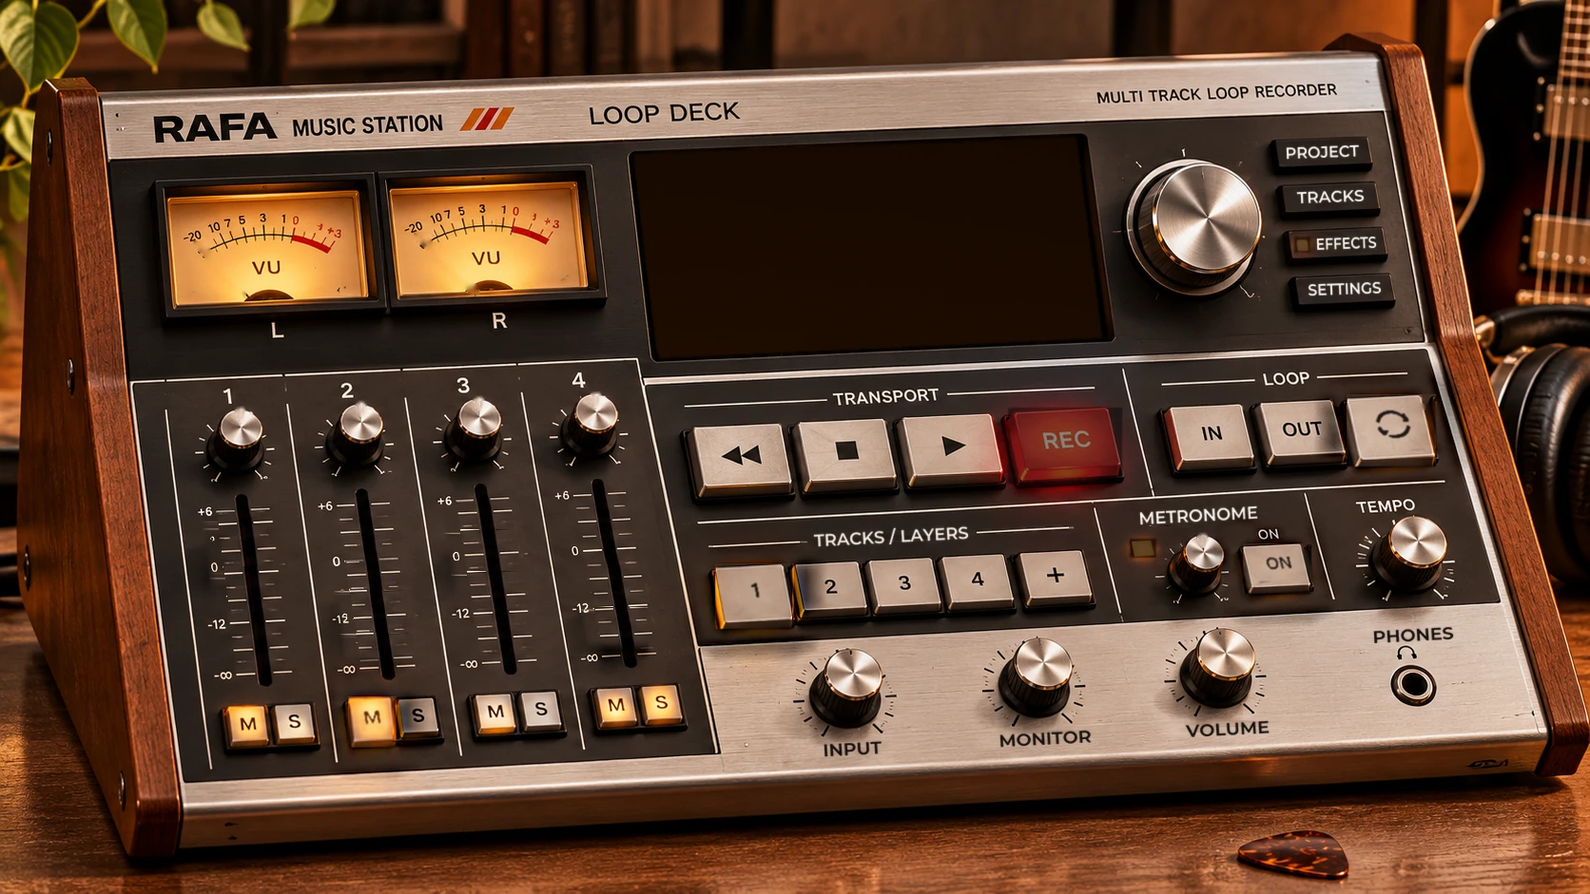
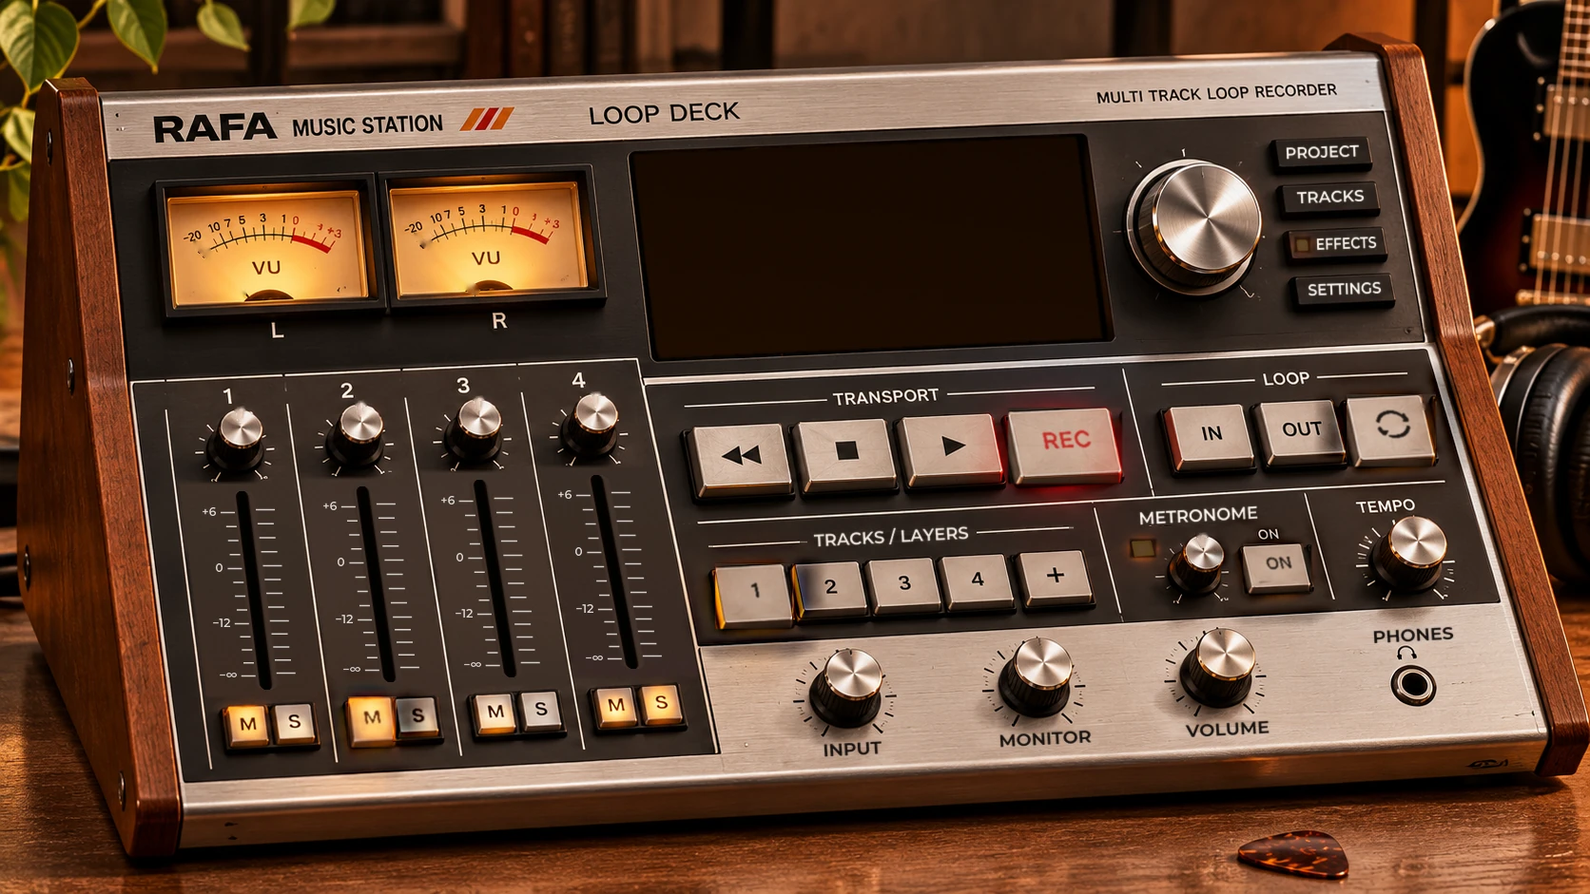
Model 5 – krok 2B: čisté dráhy faderov, REC v kľude čitateľné, S2 bez odlesku, živé ovládanie prvkov, DATA s klikom, menu doladené
Claude-Session: https://claude.ai/code/session_01LXNkLYYRgGvc4xCaCcczNM

diff --git a/ui-next/console.js b/ui-next/console.js
@@ -95,7 +95,7 @@
     hit.addEventListener("pointercancel", up);
   }
   const lit = (id, on) => BTN[id] && BTN[id].wrap.classList.toggle("lit", !!on);
-  const blink = (id, on) => BTN[id] && BTN[id].wrap.classList.toggle("blink", !!on);
+  const armed = (id, on) => BTN[id] && BTN[id].wrap.classList.toggle("armed", !!on);
   const flash = (id) => { lit(id, true); setTimeout(() => render(), 220); flashing[id] = performance.now() + 220; };
   const flashing = {};
 
@@ -182,7 +182,8 @@
     o.angle = angleDeg;
     const k = o.k, a = angleDeg * Math.PI / 180, s = Math.sin(a), c = Math.cos(a);
     const r0 = o.k === C.knobs.jog ? 0.55 : 0.32, r1 = 0.86;
-    const x0 = k.cx + s * k.rx * r0, y0 = k.cy - c * k.ry * r0, x1 = k.cx + s * k.rx * r1, y1 = k.cy - c * k.ry * r1;
+    const pd = o.pressed ? 1.2 : 0;
+    const x0 = k.cx + s * k.rx * r0, y0 = k.cy - c * k.ry * r0 + pd, x1 = k.cx + s * k.rx * r1, y1 = k.cy - c * k.ry * r1 + pd;
     o.ln.setAttribute("x1", x0); o.ln.setAttribute("y1", y0); o.ln.setAttribute("x2", x1); o.ln.setAttribute("y2", y1);
     o.sh.setAttribute("x1", x0 + 0.6); o.sh.setAttribute("y1", y0 + 0.9); o.sh.setAttribute("x2", x1 + 0.6); o.sh.setAttribute("y2", y1 + 0.9);
   }
@@ -233,17 +234,30 @@
   function setupJog (hit, o) {
     let lastA = null, rest = 0;
     const ang = (ev) => { const r = hit.getBoundingClientRect(); return Math.atan2(ev.clientX - (r.left + r.width / 2), -(ev.clientY - (r.top + r.height / 2))) * 180 / Math.PI; };
-    hit.addEventListener("pointerdown", (ev) => { if (ev.button !== 0) return; hit.setPointerCapture(ev.pointerId); lastA = ang(ev); rest = 0; hold.jog = true; hit.style.cursor = "grabbing"; });
+    let moved = 0;
+    hit.addEventListener("pointerdown", (ev) => { if (ev.button !== 0) return; hit.setPointerCapture(ev.pointerId); lastA = ang(ev); rest = 0; moved = 0; hold.jog = true; hit.style.cursor = "grabbing"; hit.classList.add("active"); o.pressed = true; drawKnob(o, jogAcc); });
     hit.addEventListener("pointermove", (ev) => {
       if (!hold.jog) return; let a = ang(ev), d = a - lastA; if (d > 180) d -= 360; if (d < -180) d += 360; lastA = a;
-      jogAcc += d; drawKnob(o, jogAcc); rest += d;
+      jogAcc += d; moved += Math.abs(d); drawKnob(o, jogAcc); rest += d;
       while (rest >= 15) { rest -= 15; jogStep(+1, ev.shiftKey); }
       while (rest <= -15) { rest += 15; jogStep(-1, ev.shiftKey); }
     });
-    const end = () => { hold.jog = false; hit.style.cursor = ""; };
+    const end = (ev) => {
+      if (!hold.jog) return; hold.jog = false; hit.style.cursor = ""; o.pressed = false; drawKnob(o, jogAcc);
+      setTimeout(() => hit.classList.remove("active"), 250);
+      if (ev.type === "pointerup" && moved < 6) jogPress();      // krátke stlačenie bez otočenia = vybrať
+    };
     hit.addEventListener("pointerup", end); hit.addEventListener("pointercancel", end);
-    hit.addEventListener("wheel", (ev) => { ev.preventDefault(); const d = ev.deltaY < 0 ? 1 : -1; jogAcc += d * 15; drawKnob(o, jogAcc); jogStep(d, ev.shiftKey); }, { passive: false });
-    hit.addEventListener("dblclick", () => { if (menu) menuEnter(); });
+    let wheelT = 0;
+    hit.addEventListener("wheel", (ev) => { ev.preventDefault(); const d = ev.deltaY < 0 ? 1 : -1; jogAcc += d * 15; drawKnob(o, jogAcc); hit.classList.add("active"); clearTimeout(wheelT); wheelT = setTimeout(() => hit.classList.remove("active"), 300); jogStep(d, ev.shiftKey); }, { passive: false });
+  }
+  // stlačenie DATA: v menu vyberie položku, inak otvorí rýchly výber vrstvy
+  function jogPress () {
+    if (menu) { menuEnter(); return; }
+    if (!tracks.length) { flashValue("Zatiaľ žiadna vrstva"); return; }
+    const items = tracks.map((x, i) => ({ t: (i + 1) + "  " + x.name, act: () => { localSel = x.id; page = Math.floor(i / 4); if (has(4)) send("selectTrack", { trackId: x.id }); flashValue("Vybraná vrstva: " + x.name); } }));
+    menu = { id: "select", title: "VÝBER VRSTVY", items, sel: Math.max(0, tracks.findIndex(x => x.id === selectedId())) };
+    drawMenu();
   }
   function jogStep (dir, big) {
     if (menu) return menuMove(dir);
@@ -345,10 +359,11 @@
   const fmtTime = (s) => { const neg = s < 0; s = Math.abs(s); const m = Math.floor(s / 60), r = s - m * 60; return (neg ? "−" : "") + m + ":" + r.toFixed(3).padStart(6, "0"); };
   const fmtShort = (s) => { const m = Math.floor(s / 60), r = Math.floor(s - m * 60); return m + ":" + String(r).padStart(2, "0"); };
   const LANE_X = 122;
+  const LANE_H = 24;
   const laneEls = [];
   for (let i = 0; i < 4; i++) {
-    const lane = el("div", "lane", lanesEl, { top: px(i * 26) });
-    const ln = el("div", "ln", lane); const cv = el("canvas", "", lane); cv.width = 310 * 2; cv.height = 26 * 2;
+    const lane = el("div", "lane", lanesEl, { top: px(i * LANE_H) });
+    const ln = el("div", "ln", lane); const cv = el("canvas", "", lane); cv.width = 290 * 2; cv.height = 22 * 2;
     laneEls.push({ lane, ln, cv, sig: "" });
   }
   const loopEl = el("div", "d-loop", lanesEl, { display: "none" });
@@ -405,7 +420,7 @@
     emptyEl.style.display = tracks.length ? "none" : "block";
     pageEl.textContent = tracks.length > 4 ? "STOPY " + (page * 4 + 1) + "–" + Math.min(tracks.length, page * 4 + 4) + " / " + tracks.length : "";
     const w = laneW();
-    headEl.style.left = px(LANE_X + clamp((t.position || 0) / viewLength, 0, 1) * w);
+    headEl.style.left = px(LANE_X + clamp((t.position || 0) / viewLength, 0, 1) * (w - 2));
     if (lp.on) { loopEl.style.display = "block"; loopEl.style.left = px(LANE_X + lp.start / viewLength * w); loopEl.style.width = px(Math.max(1, (lp.end - lp.start) / viewLength * w)); }
     else loopEl.style.display = "none";
   }
@@ -453,7 +468,7 @@
     menuEl.hidden = false;
     menuEl.innerHTML = "<h4>" + menu.title + "</h4>" + menu.items.map((it, i) =>
       `<div class="mi${i === menu.sel ? " sel" : ""}${it.dis ? " dis" : ""}" data-i="${i}">${escapeHtml(it.t)}</div>`).join("") +
-      `<div class="hint">točiť DATA · klik = vybrať · ${menu.parent ? "← späť" : "tlačidlo = zavrieť"}</div>`;
+      `<div class="hint">DATA: otočiť = pohyb, klik = vybrať, ${menu.parent ? "Esc = späť" : "tlačidlo = zavrieť"}</div>`;
     render();
   }
   menuEl.addEventListener("pointerover", (ev) => { const i = ev.target.dataset && ev.target.dataset.i; if (i !== undefined && menu) { menu.sel = +i; drawMenu(); } });
@@ -502,7 +517,7 @@
     if (!st) return;
     const t = st.transport || {}, now = performance.now();
     const isFlash = (id) => flashing[id] && flashing[id] > now;
-    lit("play", t.playing && !t.recording); lit("rec", t.recording); blink("rec", t.countingIn);
+    lit("play", t.playing && !t.recording); lit("rec", t.recording && !t.countingIn); armed("rec", t.countingIn);
     lit("stop", isFlash("stop")); lit("rewind", isFlash("rewind")); lit("loopIn", isFlash("loopIn")); lit("loopOut", isFlash("loopOut")); lit("layerAdd", isFlash("layerAdd"));
     lit("loop", st.loop && st.loop.on); lit("metroOn", st.metronome && st.metronome.on);
     for (const m of ["project", "tracks", "effects", "settings"]) lit(m, menu && menu.id === m);
@@ -546,7 +561,7 @@
     const dt = Math.min(0.1, (now - lastT) / 1000); lastT = now;
     const [tl, tr] = vuTargets();
     for (const [side, target] of [["L", tl], ["R", tr]]) {
-      const o = vuSide[side], vu = clamp(target + 18, -23, 3.6);   // 0 VU = −18 dBFS
+      const o = vuSide[side], vu = clamp(target + 18, -21.8, 3.3);   // 0 VU = −18 dBFS
       o.val += (vu - o.val) * (1 - Math.exp(-dt / 0.3 * 3));
       drawNeedle(o, vuAngle(o.val));
     }
@@ -556,7 +571,7 @@
   requestAnimationFrame(frame);
 
   // ------------------------------------------------------------------ motor
-  Rafa.on("state", (s) => { st = s; if (menu && menu.id !== "rename" && !menu.parent) { const m = buildMenu(menu.id); m.sel = menu.sel; menu = m; drawMenu(); } else render(); });
+  Rafa.on("state", (s) => { st = s; if (menu && ["project", "tracks", "effects", "settings"].includes(menu.id) && !menu.parent) { const m = buildMenu(menu.id); m.sel = menu.sel; menu = m; drawMenu(); } else render(); });
   Rafa.on("tracks", (t) => {
     tracks = (t && t.tracks) || []; viewLength = (t && t.viewLength) || 30;
     if (page * 4 >= tracks.length) page = Math.max(0, Math.ceil(tracks.length / 4) - 1);

diff --git a/ui-next/console.css b/ui-next/console.css
@@ -23,8 +23,10 @@ html, body { margin: 0; height: 100%; background: #140b06; overflow: hidden; use
   box-shadow: 0 0 22px 6px rgba(255, 158, 40, .35); }
 .btn.k-rec .glow { box-shadow: 0 0 26px 8px rgba(255, 40, 20, .45); }
 .btn.k-menu .glow { box-shadow: none; }
-.btn.blink.lit .on { animation: blink 0.5s steps(1) infinite; }
-@keyframes blink { 50% { opacity: .25; } }
+.btn.armed .on { animation: armed 0.9s ease-in-out infinite; }
+.btn.armed .glow { opacity: .5; }
+@keyframes armed { 0%, 100% { opacity: .15; } 50% { opacity: .55; } }
+.hit.jog.active::after { opacity: 1; background: radial-gradient(closest-side, rgba(255, 200, 120, .22), rgba(255, 200, 120, .06) 65%, transparent); }
 .led .on { opacity: 0; transition: opacity 40ms; }
 .led.lit .on { opacity: 1; }
 .led .halo { position: absolute; inset: 2px; border-radius: 4px; opacity: 0; box-shadow: 0 0 14px 5px rgba(255, 170, 40, .55); transition: opacity 40ms; }
@@ -44,7 +46,7 @@ html, body { margin: 0; height: 100%; background: #140b06; overflow: hidden; use
 
 /* ---------- displej ---------- */
 #display { position: absolute; left: 0; top: 0; width: 472px; height: 220px; transform-origin: 0 0; overflow: hidden;
-  box-sizing: border-box; padding: 14px 18px 10px 20px;
+  box-sizing: border-box; padding: 18px 26px 16px 28px;
   font-family: "RafaSans", "Segoe UI", sans-serif; font-weight: 500; color: #ffb547;
   text-shadow: 0 0 6px rgba(255, 150, 30, .55);
   background: radial-gradient(ellipse at 50% 30%, rgba(60, 28, 6, .25), transparent 70%); }
@@ -63,28 +65,29 @@ html, body { margin: 0; height: 100%; background: #140b06; overflow: hidden; use
 .d-info { display: flex; gap: 14px; font-size: 10px; color: #d98b33; letter-spacing: .04em; border-bottom: 1px solid rgba(255, 170, 60, .45);
   padding-bottom: 3px; margin-bottom: 4px; font-variant-numeric: tabular-nums; }
 .d-info span:last-child { margin-left: auto; }
-.d-lanes { position: relative; height: 104px; }
-.lane { position: absolute; left: 0; right: 0; height: 26px; display: flex; align-items: center; }
+.d-lanes { position: relative; height: 96px; margin-right: 6px; }
+.lane { position: absolute; left: 0; right: 0; height: 24px; display: flex; align-items: center; }
 .lane .ln { width: 122px; font-size: 12.5px; white-space: nowrap; overflow: hidden; text-overflow: ellipsis; color: #ffb547; padding-left: 4px; box-sizing: border-box; }
 .lane .ln b { font-weight: 600; display: inline-block; width: 16px; }
 .lane.sel .ln { color: #ffe0a6; text-shadow: 0 0 8px rgba(255, 190, 90, .9); }
 .lane.muted { opacity: .38; }
 .lane.rec .ln { color: #ff6a45; }
-.lane canvas { flex: 1; height: 26px; }
+.lane canvas { flex: 1; height: 22px; }
 .d-empty { position: absolute; left: 0; right: 0; top: 36px; text-align: center; font-size: 12px; color: #c8822f; }
 .d-playhead { position: absolute; top: 0; bottom: 0; width: 1.5px; background: #ffd27a; box-shadow: 0 0 5px rgba(255, 190, 80, .9); }
 .d-loop { position: absolute; top: 0; bottom: 0; background: rgba(255, 170, 60, .10); border-left: 1px solid rgba(255, 170, 60, .7); border-right: 1px solid rgba(255, 170, 60, .7); }
 .d-page { position: absolute; right: 0; bottom: -2px; font-size: 9px; color: #c8822f; }
 
 /* menu na displeji */
-.d-menu { position: absolute; left: 14px; right: 14px; top: 34px; bottom: 10px; background: #160803;
-  border: 1px solid rgba(255, 170, 60, .55); border-radius: 3px; padding: 6px 10px; font-size: 13px; }
+.d-menu { position: absolute; left: 24px; right: 24px; top: 42px; bottom: 16px; background: #160803;
+  border: 1px solid rgba(255, 170, 60, .45); border-radius: 3px; padding: 8px 10px 22px; font-size: 13px; box-sizing: border-box; }
 .d-menu h4 { margin: 0 0 4px; font-size: 11px; letter-spacing: .12em; font-weight: 600; color: #f2a53e; }
-.d-menu .mi { padding: 2px 6px; border-radius: 2px; cursor: pointer; white-space: nowrap; }
-.d-menu .mi.sel { background: rgba(255, 170, 60, .22); color: #ffe0a6; }
+.d-menu .mi { padding: 1px 8px 1px 14px; height: 19px; line-height: 19px; cursor: pointer; white-space: nowrap; position: relative; }
+.d-menu .mi.sel { background: linear-gradient(90deg, rgba(255, 170, 60, .26), rgba(255, 170, 60, .08)); color: #ffe6b8; }
+.d-menu .mi.sel::before { content: ""; position: absolute; left: 4px; top: 6px; width: 0; height: 0; border-left: 5px solid #ffc164; border-top: 4px solid transparent; border-bottom: 4px solid transparent; }
 .d-menu .mi.dis { opacity: .4; }
-.d-menu .hint { position: absolute; right: 10px; bottom: 6px; font-size: 9px; color: #b9772b; }
+.d-menu .hint { position: absolute; left: 14px; right: 10px; bottom: 6px; font-size: 8.5px; color: #8f5a22; text-shadow: none; letter-spacing: .02em; }
 
 /* bublina hodnoty pri točení gombíkom – nepoužíva sa obdĺžnik nad prvkom, hodnota sa ukáže na displeji */
-.d-value { position: absolute; left: 0; right: 0; top: 52px; text-align: center; font-size: 13px; color: #ffe0a6; opacity: 0; transition: opacity 200ms; }
+.d-value { position: absolute; left: 28px; right: 32px; top: 79px; height: 16px; line-height: 16px; text-align: center; font-size: 12.5px; color: #ffe0a6; background: #170903; border-top: 1px solid rgba(255,170,60,.35); border-bottom: 1px solid rgba(255,170,60,.35); opacity: 0; transition: opacity 200ms; z-index: 3; }
 .d-value.show { opacity: 1; }

diff --git a/ui-next/controls.js b/ui-next/controls.js
@@ -320,7 +320,7 @@ window.RAFA_CONTROLS = {
    "h": 50,
    "off": "assets/btn_solo2_off.webp",
    "on": "assets/btn_solo2_on.webp",
-   "kind": "grey2"
+   "kind": "grey2fix"
   },
   "mute3": {
    "x": 497,

diff --git a/tools/model5/assets.py b/tools/model5/assets.py
@@ -34,50 +34,113 @@ F={'f1':dict(top=(255,522),bot=(280,720),marks={6:538,0:597,-12:655,-100:710},ca
    'f3':dict(top=(505,510),bot=(537,707),marks={6:526,0:586,-12:645,-100:699},cap=(493,547,550,607),groove=570),
    'f4':dict(top=(628,505),bot=(665,698),marks={6:520,0:580,-12:640,-100:692},cap=(630,613,688,673),groove=637)}
 orig_plate=plate.copy()
+from PIL import ImageFont, ImageDraw
+FONT=ImageFont.truetype('/tmp/fonts/Montserrat.ttf',60); FONT.set_variation_by_axes([550])
+def slotfun(f):
+    (tx,ty),(bx,by)=f['top'],f['bot']; sl=(bx-tx)/(by-ty); return (lambda y: tx+(y-ty)*sl), sl
+def draw_text_alpha(text,cap):
+    img=Image.new('L',(400,120),0); d=ImageDraw.Draw(img); d.text((10,10),text,font=FONT,fill=255)
+    img=img.crop(img.getbbox()); hb=FONT.getbbox('0'); s_=cap/(hb[3]-hb[1])
+    return np.asarray(img.resize((max(1,int(img.width*s_)),max(1,int(img.height*s_))),Image.LANCZOS)).astype(np.float32)/255
+def stamp(img,alpha,x,y,color):
+    h,w=alpha.shape; x=int(round(x)); y=int(round(y))
+    img[y:y+h,x:x+w]=img[y:y+h,x:x+w]*(1-alpha[...,None])+np.array(color,np.float32)*alpha[...,None]
+def hline(img,y,xa,xb,color,th=1.6):
+    # vodorovna ryzka s antialiasingom
+    for yy in range(int(np.floor(y-th)),int(np.ceil(y+th))+1):
+        a_=np.clip(th/2+0.5-abs(yy-y),0,1)
+        if a_<=0: continue
+        xs=np.arange(int(np.floor(xa)),int(np.ceil(xb))+1)
+        ax=np.clip(np.minimum(xs-xa+1,xb-xs+1),0,1)*a_
+        img[yy,xs]=img[yy,xs]*(1-ax[:,None])+np.array(color,np.float32)*ax[:,None]
+# spolocne parametre z cistych miest povodneho obrazka
+prof=[]
 for n,f in F.items():
-    (tx,ty),(bx,by)=f['top'],f['bot']; slant=(bx-tx)/(by-ty)
-    slotx=lambda y: tx+(y-ty)*slant
-    x0,y0,x1,y1=f['cap']
-    Wy0,Wy1=int(max(y0-26,ty+14)),int(min(y1+36,by-14))
-    if f['groove']<600: cs,ce=Wy1+2,int(by-14)
-    else: cs,ce=int(ty+14),Wy0-2
-    # perioda ryzok z autokorelacie
-    ysr=np.arange(cs,ce); col=np.array([lum(orig_plate[y,int(slotx(y))+18]) for y in ysr]); col-=col.mean()
-    ac=[(col[:-k]*col[k:]).mean() for k in range(10,22)]; per=10+int(np.argmax(ac))
-    Lp=per*max(1,(ce-cs)//per)
-    rows=[]
-    for yy in range(Wy0,Wy1):
-        sx=slotx(yy); xl=int(round(sx-46)); xr=int(round(sx+40))
-        sy=cs+((yy-cs)%Lp); off=int(round(slotx(sy)-sx))
-        rows.append((yy,xl,xr,off,sy))
-    for (yy,xl,xr,off,sy) in rows:
-        seg=orig_plate[sy,xl+off:xr+off].copy()
-        lab_end=int(round(slotx(yy)-29))-xl
-        panel=np.median(orig_plate[sy,xl+off:xl+off+lab_end].reshape(-1,3),0)
-        seg[:lab_end]=panel
-        plate[yy,xl:xr]=seg
-    # vratit povodne napisy (0, +6...) v stlpci napisov, zosvetlene o tien
-    for (yy,xl,xr,off,sy) in rows:
-        lab_end=int(round(slotx(yy)-29))
-        o=orig_plate[yy,xl:lab_end]; L=lum(o)
-        m=L>70
-        if m.any():
-            plate[yy,xl:lab_end][m]=np.clip(o[m]*1.25,0,255)
-    # mäkké okraje okna
-    Wx0=int(min(r[1] for r in rows)); Wx1=int(max(r[2] for r in rows))
-    blk=plate[Wy0-8:Wy1+8,Wx0-8:Wx1+8]; ob=orig_plate[Wy0-8:Wy1+8,Wx0-8:Wx1+8]
-    msk=np.zeros(blk.shape[:2],np.float32)
-    for (yy,xl,xr,off,sy) in rows: msk[yy-Wy0+8, xl-Wx0+8+3: xr-Wx0+8-3]=1
-    msk[:12]*=0; msk[-12:]*=0
-    msk=cv2.GaussianBlur(msk,(0,0),3.5)[...,None]
-    plate[Wy0-8:Wy1+8,Wx0-8:Wx1+8]=ob*(1-msk)+blk*msk
-    # sprite hlavicky z povodneho
+    slotx,_=slotfun(f); x0,y0,x1,y1=f['cap']; (tx,ty),(bx,by)=f['top'],f['bot']
+    for y in range(int(ty+20),int(by-20)):
+        if y0-35<=y<=y1+45: continue
+        cx=slotx(y); xs=np.arange(-12,13)
+        row=np.array([orig_plate[y,int(np.floor(cx+d))]*(1-((cx+d)%1))+orig_plate[y,int(np.floor(cx+d))+1]*((cx+d)%1) for d in xs])
+        prof.append(row)
+prof=np.median(np.array(prof),0)            # priečny rez drážkou (25 bodov)
+tickcol=np.array([205,208,212],np.float32)  # farba ryziek (BGR)
+labcol=np.array([214,216,220],np.float32)
+DIV=[(182,210),(312,342),(438,473),(563,602),(695,740)]
+divx=lambda i,y: DIV[i][0]+(DIV[i][1]-DIV[i][0])*(y-500)/220
+for n,f in F.items():
+    slotx,slant=slotfun(f); (tx,ty),(bx,by)=f['top'],f['bot']; x0,y0,x1,y1=f['cap']
+    Y0,Y1=int(ty-16),int(by+16)
+    fi=int(n[1])-1
+    XL=lambda y: int(round(divx(fi,y)+4)); XR=lambda y: int(round(divx(fi+1,y)-3))
+    # 1) podklad panelu: hladky priebeh farby z cisteho stlpca vpravo od ryziek
+    ys=[];cs=[]
+    for y in range(Y0,Y1):
+        if y0-35<=y<=y1+50: continue
+        xr=XR(y)-12; ys.append(y); cs.append(np.median(orig_plate[y,xr:xr+8].reshape(-1,3),0))
+    ys=np.array(ys); cs=np.array(cs)
+    coef=[np.polyfit(ys,cs[:,k],2) for k in range(3)]
+    rng=np.random.default_rng(int(n[1]))
+    for y in range(Y0,Y1):
+        xl=XL(y); xr=XR(y)
+        base=np.array([np.polyval(coef[k],y) for k in range(3)],np.float32)
+        plate[y,xl:xr]=base+rng.normal(0,1.1,(xr-xl,1)).astype(np.float32)
+    # mäkký prechod na okrajoch oblasti do povodneho
+    # 2) drážka (kapsula) podla priecneho rezu
+    R_=7.0
+    for y in range(Y0,Y1):
+        cx=slotx(y)
+        dt=min(y-(ty-6), (by+6)-y)
+        if dt<0: continue
+        k_=1.0 if dt>=R_ else np.sqrt(max(0,1-((R_-dt)/R_)**2))
+        xs_=np.arange(int(np.floor(cx-14)),int(np.ceil(cx+15)))
+        dd=(xs_-cx)/max(k_,1e-3)
+        col=np.stack([np.interp(dd,np.arange(-12,13),prof[:,c_]) for c_ in range(3)],1)
+        w_=np.clip(12.5-np.abs(dd),0,1)*(1.0 if k_>0.05 else 0)
+        plate[y,xs_]=plate[y,xs_]*(1-w_[:,None])+col*w_[:,None]
+    # 3) ryzky: 4 dieliky medzi znackami; vlavo kratke (pri znackach dlhsie), vpravo dlhe
+    mk=[f['marks'][6],f['marks'][0],f['marks'][-12],f['marks'][-100]]
+    ticks=[]
+    for i in range(3):
+        for j in range(4): ticks.append((mk[i]+(mk[i+1]-mk[i])*j/4, j==0))
+    ticks.append((mk[3],True))
+    for (y,major) in ticks:
+        cx=slotx(y)
+        hline(plate,y+1,cx-(25 if major else 21),cx-11,tickcol,1.5)
+        hline(plate,y-2,cx+12,cx+(31 if major else 28),tickcol,1.5)
+    # 4) napisy +6, 0, -12, -∞ (zarovnane vpravo pred ryzkou)
+    for txt,y in (('+6',mk[0]),('0',mk[1]),('-12',mk[2]),('-∞',mk[3])):
+        al=draw_text_alpha(txt.replace('-','−'),9.5)
+        stamp(plate,al,slotx(y)-30-al.shape[1],y-al.shape[0]/2+0.5,labcol)
+    # mäkké okraje oblasti
+for n,f in F.items():
+    slotx,_=slotfun(f); (tx,ty),(bx,by)=f['top'],f['bot']
+    Y0,Y1=int(ty-16),int(by+16)
+    fi=int(n[1])-1
+    XL=lambda y: int(round(divx(fi,y)+4)); XR=lambda y: int(round(divx(fi+1,y)-3))
+    for y in list(range(Y0,Y0+4))+list(range(Y1-4,Y1)):
+        w_=(min(y-Y0,Y1-1-y)+0.5)/4
+        xl=XL(y); xr=XR(y)
+        plate[y,xl:xr]=orig_plate[y,xl:xr]*(1-w_)+plate[y,xl:xr]*w_
+    for y in range(Y0,Y1):
+        xl=XL(y); xr=XR(y)
+        for k in range(2):
+            w_=(k+0.5)/2
+            plate[y,xl+k]=orig_plate[y,xl+k]*(1-w_)+plate[y,xl+k]*w_
+            plate[y,xr-1-k]=orig_plate[y,xr-1-k]*(1-w_)+plate[y,xr-1-k]*w_
+# 5) sprity hlaviciek: plna hlavicka + mäkký tien (len tmavsie miesta, vyhladene)
+for n,f in F.items():
+    slotx,slant=slotfun(f); x0,y0,x1,y1=f['cap']
     S=(x0-8,y0-10,x1+12,y1+20)
     o=orig_plate[S[1]:S[3],S[0]:S[2]]; r=plate[S[1]:S[3],S[0]:S[2]]
-    d=np.abs(o-r).max(2); al=np.clip((d-8)/26,0,1); al=cv2.GaussianBlur(al,(3,3),0)
-    inner=np.zeros_like(al); inner[(y0-S[1])+2:(y1-S[1])-1,(x0-S[0])+2:(x1-S[0])-2]=1
-    al=np.maximum(al,inner)
-    save_sprite(f'fader_{n}',o,al)
+    inner=np.zeros(o.shape[:2],np.float32); inner[(y0-S[1])+1:(y1-S[1]),(x0-S[0])+1:(x1-S[0])-1]=1
+    edge=cv2.dilate(inner,np.ones((5,5),np.uint8))
+    d=np.abs(o-r).max(2); al_edge=np.clip((d-14)/30,0,1)*edge
+    dark=np.clip((lum(r)-lum(o)),0,None); dark=cv2.GaussianBlur(dark,(0,0),3)
+    shadow=np.clip(dark/max(1,lum(r).mean()),0,0.85)
+    ring=cv2.GaussianBlur(cv2.dilate(inner,np.ones((21,21),np.uint8)),(0,0),3)
+    al=np.maximum(np.maximum(inner,al_edge),shadow*ring)
+    col=np.where(inner[...,None]>0.5,o,o*0+np.where((al_edge>0)[...,None],o,0))
+    save_sprite(f'fader_{n}',np.where((inner+al_edge)[...,None]>0,o,np.zeros_like(o)),al)
     ctl['faders'][n]={'sprite':f'assets/fader_{n}.webp','x':S[0],'y':S[1],'w':S[2]-S[0],'h':S[3]-S[1],
         'grooveY':f['groove'],'slant':round(slant,4),'marks':{str(k):v for k,v in f['marks'].items()},
         'track':int(n[1])-1}
@@ -91,7 +154,7 @@ B={ # id: (x,y,w,h) z detekcie, typ
  'loopIn':(1231,426,86,59,'grey'),'loopOut':(1326,421,88,59,'grey'),'loop':(1417,416,91,68,'litgrey'),
  'layer1':(753,594,80,61,'litgrey'),'layer2':(837,591,74,51,'grey'),'layer3':(915,588,73,50,'grey'),'layer4':(992,584,73,50,'grey'),'layerAdd':(1074,580,73,50,'grey'),
  'metroOn':(1308,573,69,45,'litgrey'),
- 'mute1':(240,743,41,37,'cream'),'solo1':(290,742,40,36,'grey2'),'mute2':(367,734,48,46,'litcream'),'solo2':(417,735,43,36,'grey2'),
+ 'mute1':(240,743,41,37,'cream'),'solo1':(290,742,40,36,'grey2'),'mute2':(367,734,48,46,'litcream'),'solo2':(417,735,43,36,'grey2fix'),
  'mute3':(501,731,40,40,'cream'),'solo3':(549,728,40,36,'grey2'),'mute4':(628,724,41,36,'cream'),'solo4':(676,722,40,35,'grey2'),
 }
 P=plate.copy()
@@ -149,15 +212,24 @@ for n,r in B.items():
         warped=cv2.warpAffine(refimg,M,(src.shape[1],src.shape[0]),flags=cv2.INTER_LINEAR,borderMode=cv2.BORDER_REPLICATE)
         ga=glyph_alpha(src)
         return warped*(1-ga[...,None])+inkcol*ga[...,None]
-    REF={'layer1':'layer2','loop':'loopOut','metroOn':'layer4','mute2':'mute1'}
+    REF={'layer1':'layer2','loop':'loopOut','metroOn':'layer4','mute2':'mute1','solo2':'solo1'}
     if kind=='grey': off=src; on=compose(src,pal['orange'],ink_on,smooth=True)
     elif kind=='litgrey': on=src; off=from_ref(REF[n],ink_off)
     elif kind=='cream': off=src; on=compose(src,pal['creamlit'],ink_m_on)
     elif kind=='litcream': on=src; off=from_ref(REF[n],ink_m_off)
     elif kind=='grey2': off=src; on=compose(src,pal['creamlit'],ink_m_on)
+    elif kind=='grey2fix':
+        off=from_ref(REF[n],ink('solo1')); on=compose(off,pal['creamlit'],ink_m_on)
     elif kind=='rec':
-        on=src; hsv=cv2.cvtColor(np.clip(src,0,255).astype(np.uint8),cv2.COLOR_BGR2HSV).astype(np.float32)
-        hsv[...,2]*=0.52; hsv[...,1]*=0.85; off=cv2.cvtColor(hsv.clip(0,255).astype(np.uint8),cv2.COLOR_HSV2BGR).astype(np.float32)
+        on=src
+        L=lum(src); bl=cv2.GaussianBlur(L,(0,0),5)
+        gb=np.clip((L-bl-12)/30,0,1)
+        inner=np.zeros_like(gb); h_,w_=gb.shape; inner[int(h_*0.2):int(h_*0.66),int(w_*0.15):int(w_*0.85)]=1
+        gb=cv2.GaussianBlur(gb*inner,(3,3),0)
+        rb=B['play']; refimg=clean('play'); sx_=bw/rb[2]; sy_=bh/rb[3]
+        M=np.float32([[sx_,0,4-4*sx_],[0,sy_,4-4*sy_]])
+        base=cv2.warpAffine(refimg,M,(src.shape[1],src.shape[0]),flags=cv2.INTER_LINEAR,borderMode=cv2.BORDER_REPLICATE)
+        off=base*(1-gb[...,None])+np.array([38,44,196],np.float32)*gb[...,None]
     elif kind=='menu':
         off=src; L=lum(src); t=np.clip((L-90)/80,0,1)[...,None]
         on=src*(1-t)+np.array([90,190,255],np.float32)*t
